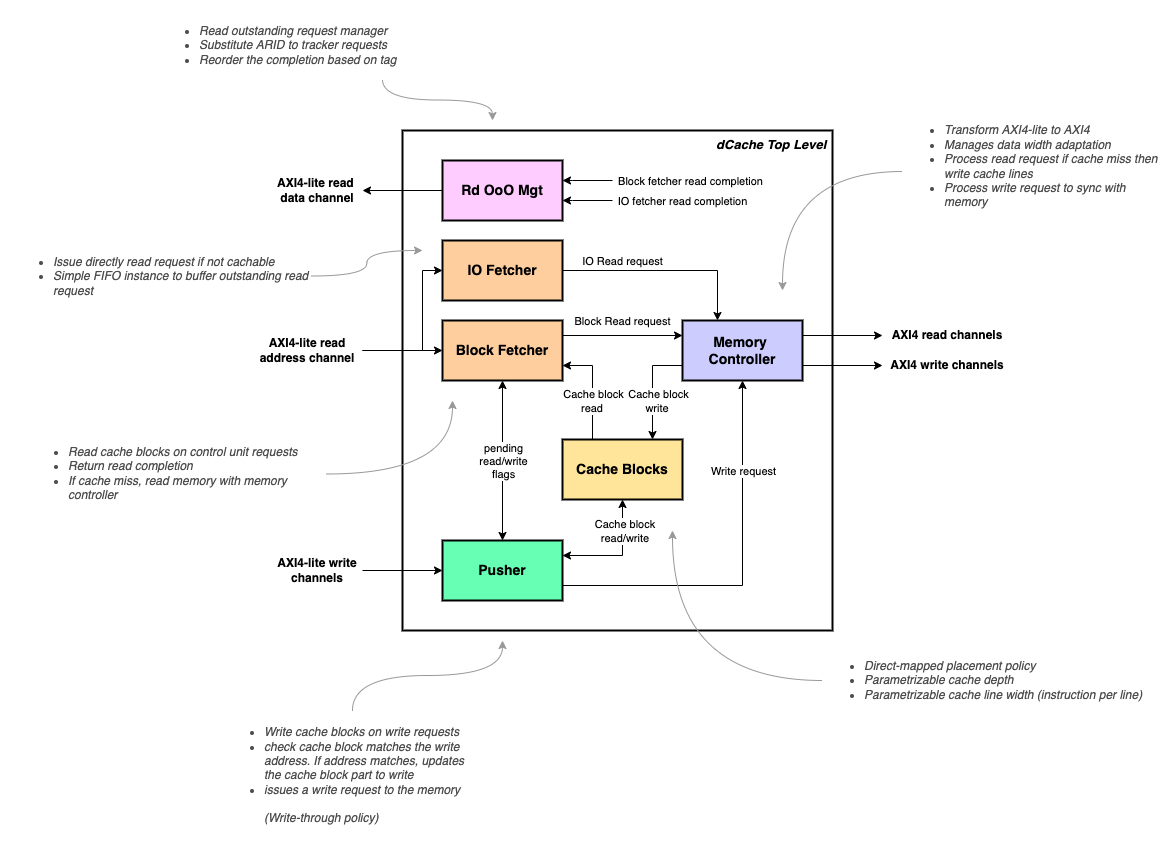
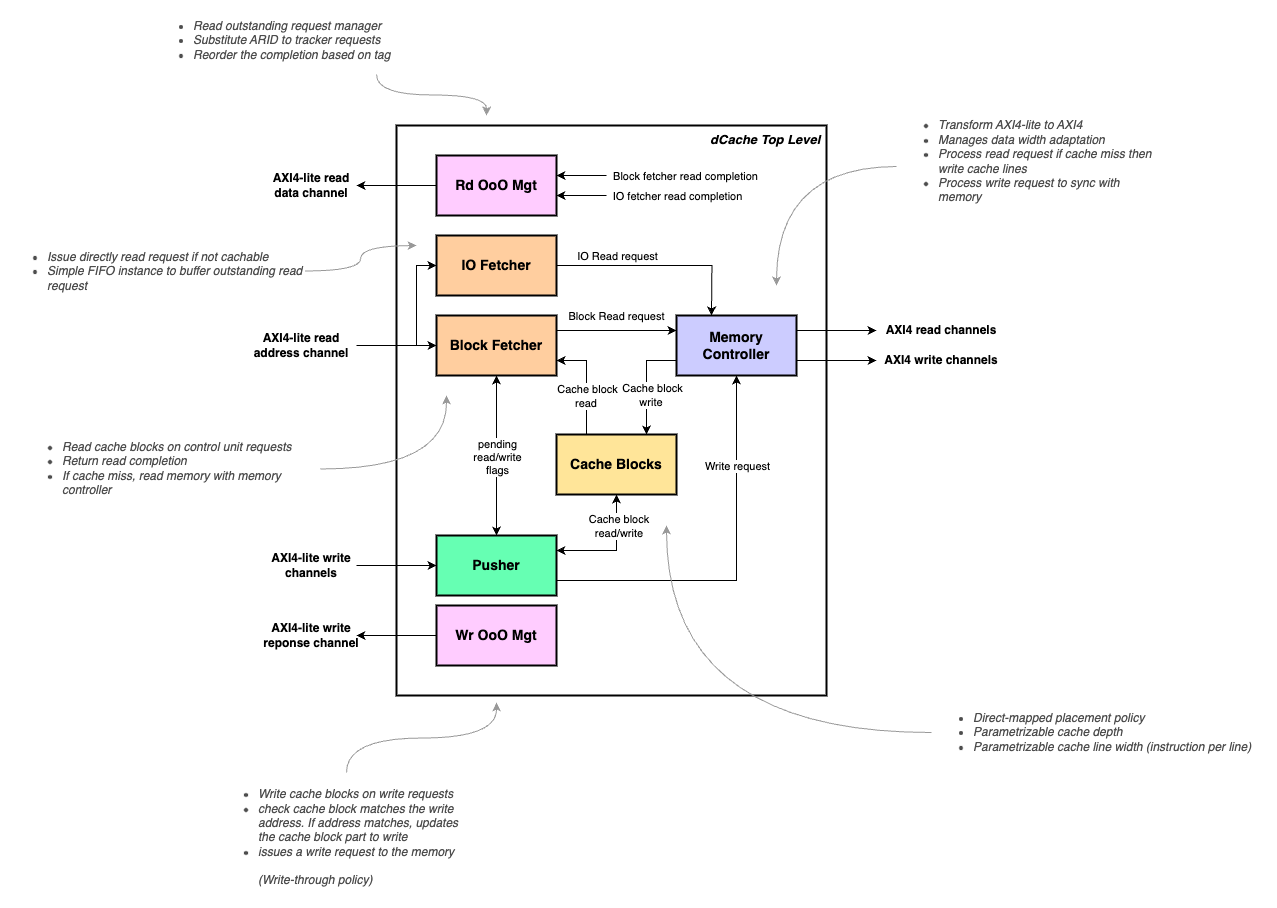
Update documentation

diff --git a/doc/architecture.md b/doc/architecture.md
@@ -18,6 +18,7 @@ The FRISCV core is compact and composed by:
 - the cache units, one for instuction bus, one for data bus
 - the CSR unit, providing the registers to connect the features and extensions
 - the ISA registers, shared between control and processing units
+- the MPU (memory protection unit) composed by PMP and PMA for less-privilege mode memory access
 
 
 `Platform`
@@ -41,7 +42,7 @@ instructions across the hart. The unit is composed by several pieces:
 
 - The central FSM sequencing the execution
 - The program counter management based on current instruction to execute
-- A FIFO to buffer the incoming instructions
+- A FIFO to buffer the incoming instructions (optional)
 - An instruction decoder to decompose the machine code and ease the processing
 
 <p align="center"> <img src="assets/control-fetch.png"> </p>
@@ -64,9 +65,9 @@ addresses `0x4` and `0x5` are discarded and only instructions from `0xA` will be
 this new memory section read, the control unit increments the address channel ID when jumping to
 ease this batch identification.
 
-The FIFO present as a front-end of the module is very important to store incoming instructions in
-case the processing unit, the CSRs are not ready to execute an instruction (for instance if reading
-the external central memory).
+The FIFO present as a front-end of the module can be activated to store incoming instructions in
+case the processing unit is not ready to execute an instruction (for instance if reading
+the external central memory or executing a division).
 
 In case the control unit pre-loaded too much instruction while a branch needs to be taken, it can
 flush the front-end FIFO and the iCache buffer and restarts faster to follow the new branch.
@@ -223,19 +224,19 @@ request to the memory controller. This path is needed to manage IO R/W while the
 cachable.
 
 
-#### Read Out-Of-Order Management
+#### Out-Of-Order Management
 
 <p align="center"> <img src="./assets/dCache-ooo.png"> </p>
 
-Read request can target either an IO region or a cachable region, the application needs to
-indicate this information with ARCACHE. Block-Fetcher stage (same module than iCache) manages the
+Read/Write request can target either an IO region or a cachable region, the application needs to
+indicate this information with ACACHE. Block-Fetcher stage (same module than iCache) manages the
 read request in the cache blocks, IO-Fetcher manages the IO request to route directly in the memory
-with the memory controller. Because read request can come back out-of-order with the latency
-different between block and memory, the dCache uses one more module to manage that. The OoO Manager
-module substitutes ARID to make it unique for each read request and uses them to reorder the read
-data completion to the application. This stage can be deactivated if not necessary, if the
-application can manage by itself the reordering or if doesn't target IO region (Block-Fetcher always
-completes requets in-order).
+with the memory controller. Pusher maanges all the write requests. Because read or write requests
+can come back out-of-order with the latency different between block and memory, the dCache uses one
+more module to manage that. The OoO Manager module substitutes AID to make it unique for each r/w
+request and uses them to reorder the completions to the application. This stage can be
+deactivated if not necessary, if the application can manage by itself the reordering or if doesn't
+target IO region (Block-Fetcher always completes requets in-order).
 
 
 #### AXI4 Ordering Rules

diff --git a/README.md b/README.md
@@ -1,10 +1,10 @@
 
-                         ███████╗██████╗ ██╗███████╗ ██████╗██╗   ██╗
-                         ██╔════╝██╔══██╗██║██╔════╝██╔════╝██║   ██║
-                         █████╗  ██████╔╝██║███████╗██║     ██║   ██║
-                         ██╔══╝  ██╔══██╗██║╚════██║██║     ╚██╗ ██╔╝
-                         ██║     ██║  ██║██║███████║╚██████╗ ╚████╔╝
-                         ╚═╝     ╚═╝  ╚═╝╚═╝╚══════╝ ╚═════╝  ╚═══╝
+     ███████╗██████╗ ██╗███████╗ ██████╗██╗   ██╗
+     ██╔════╝██╔══██╗██║██╔════╝██╔════╝██║   ██║
+     █████╗  ██████╔╝██║███████╗██║     ██║   ██║
+     ██╔══╝  ██╔══██╗██║╚════██║██║     ╚██╗ ██╔╝
+     ██║     ██║  ██║██║███████║╚██████╗ ╚████╔╝
+     ╚═╝     ╚═╝  ╚═╝╚═╝╚══════╝ ╚═════╝  ╚═══╝
 
 ![CI](https://github.com/dpretet/friscv/actions/workflows/ci.yaml/badge.svg?branch=master)
 [![GitHub license](https://img.shields.io/github/license/dpretet/friscv)](https://github.com/dpretet/friscv/blob/master/LICENSE)
@@ -54,9 +54,10 @@ The IP is decribed in two layers:
 The core is compact and composed by:
 - the control unit, fetching and sequencing the instructions
 - the processing unit, executing the arithmetic and memory access instructions
-- the cache units
+- the cache units, one for instruction, one for data bus
 - the CSR unit
 - the ISA registers
+- the memory protection unit for less-privilege mode memory access
 
 More details of the architecture can be found in the:
 - Architecture [chapter](./doc/architecture.md).
